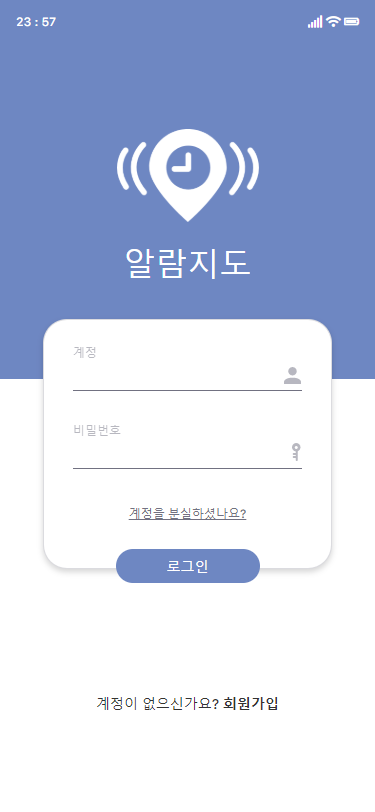
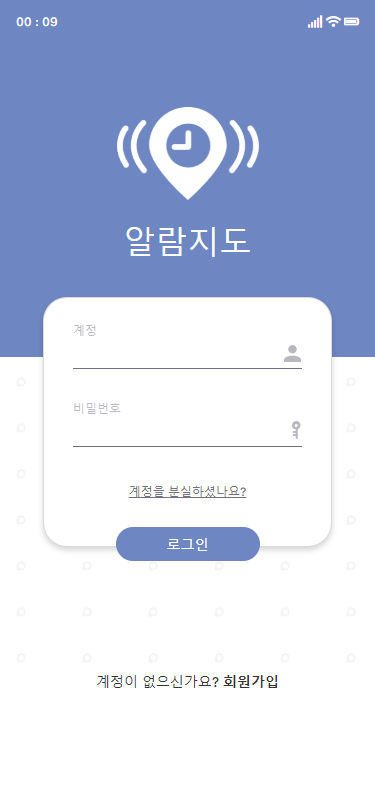
하단 길이

diff --git a/login.html b/login.html
@@ -3,7 +3,7 @@
 <head>
     <meta charset="UTF-8">
     <meta name="viewport" content="width=device-width, initial-scale=1.0">
-    <title>채팅봇 | 알지</title>
+    <title>로그인 | 알지</title>
     <link type="text/css" rel="stylesheet" href="./css/style.css" />
     <script type="text/javascript" src="./js/jquery-1.12.4.min.js"></script>
     <script src="https://kit.fontawesome.com/5395c296b4.js" crossorigin="anonymous"></script>

diff --git a/css/login.css b/css/login.css
@@ -2,7 +2,10 @@
 
 #wrap {background: #6E87C2;}
 .top-area {background: #6E87C2;}
-.bottom-area {background: #fff url('../img/login-bg.png') no-repeat 16px 20px;}
+.bottom-area {
+    height: 450px;
+    background: #fff url('../img/login-bg.png') no-repeat 16px 20px;
+}
 
 .login-logo {
     width: 142px;
